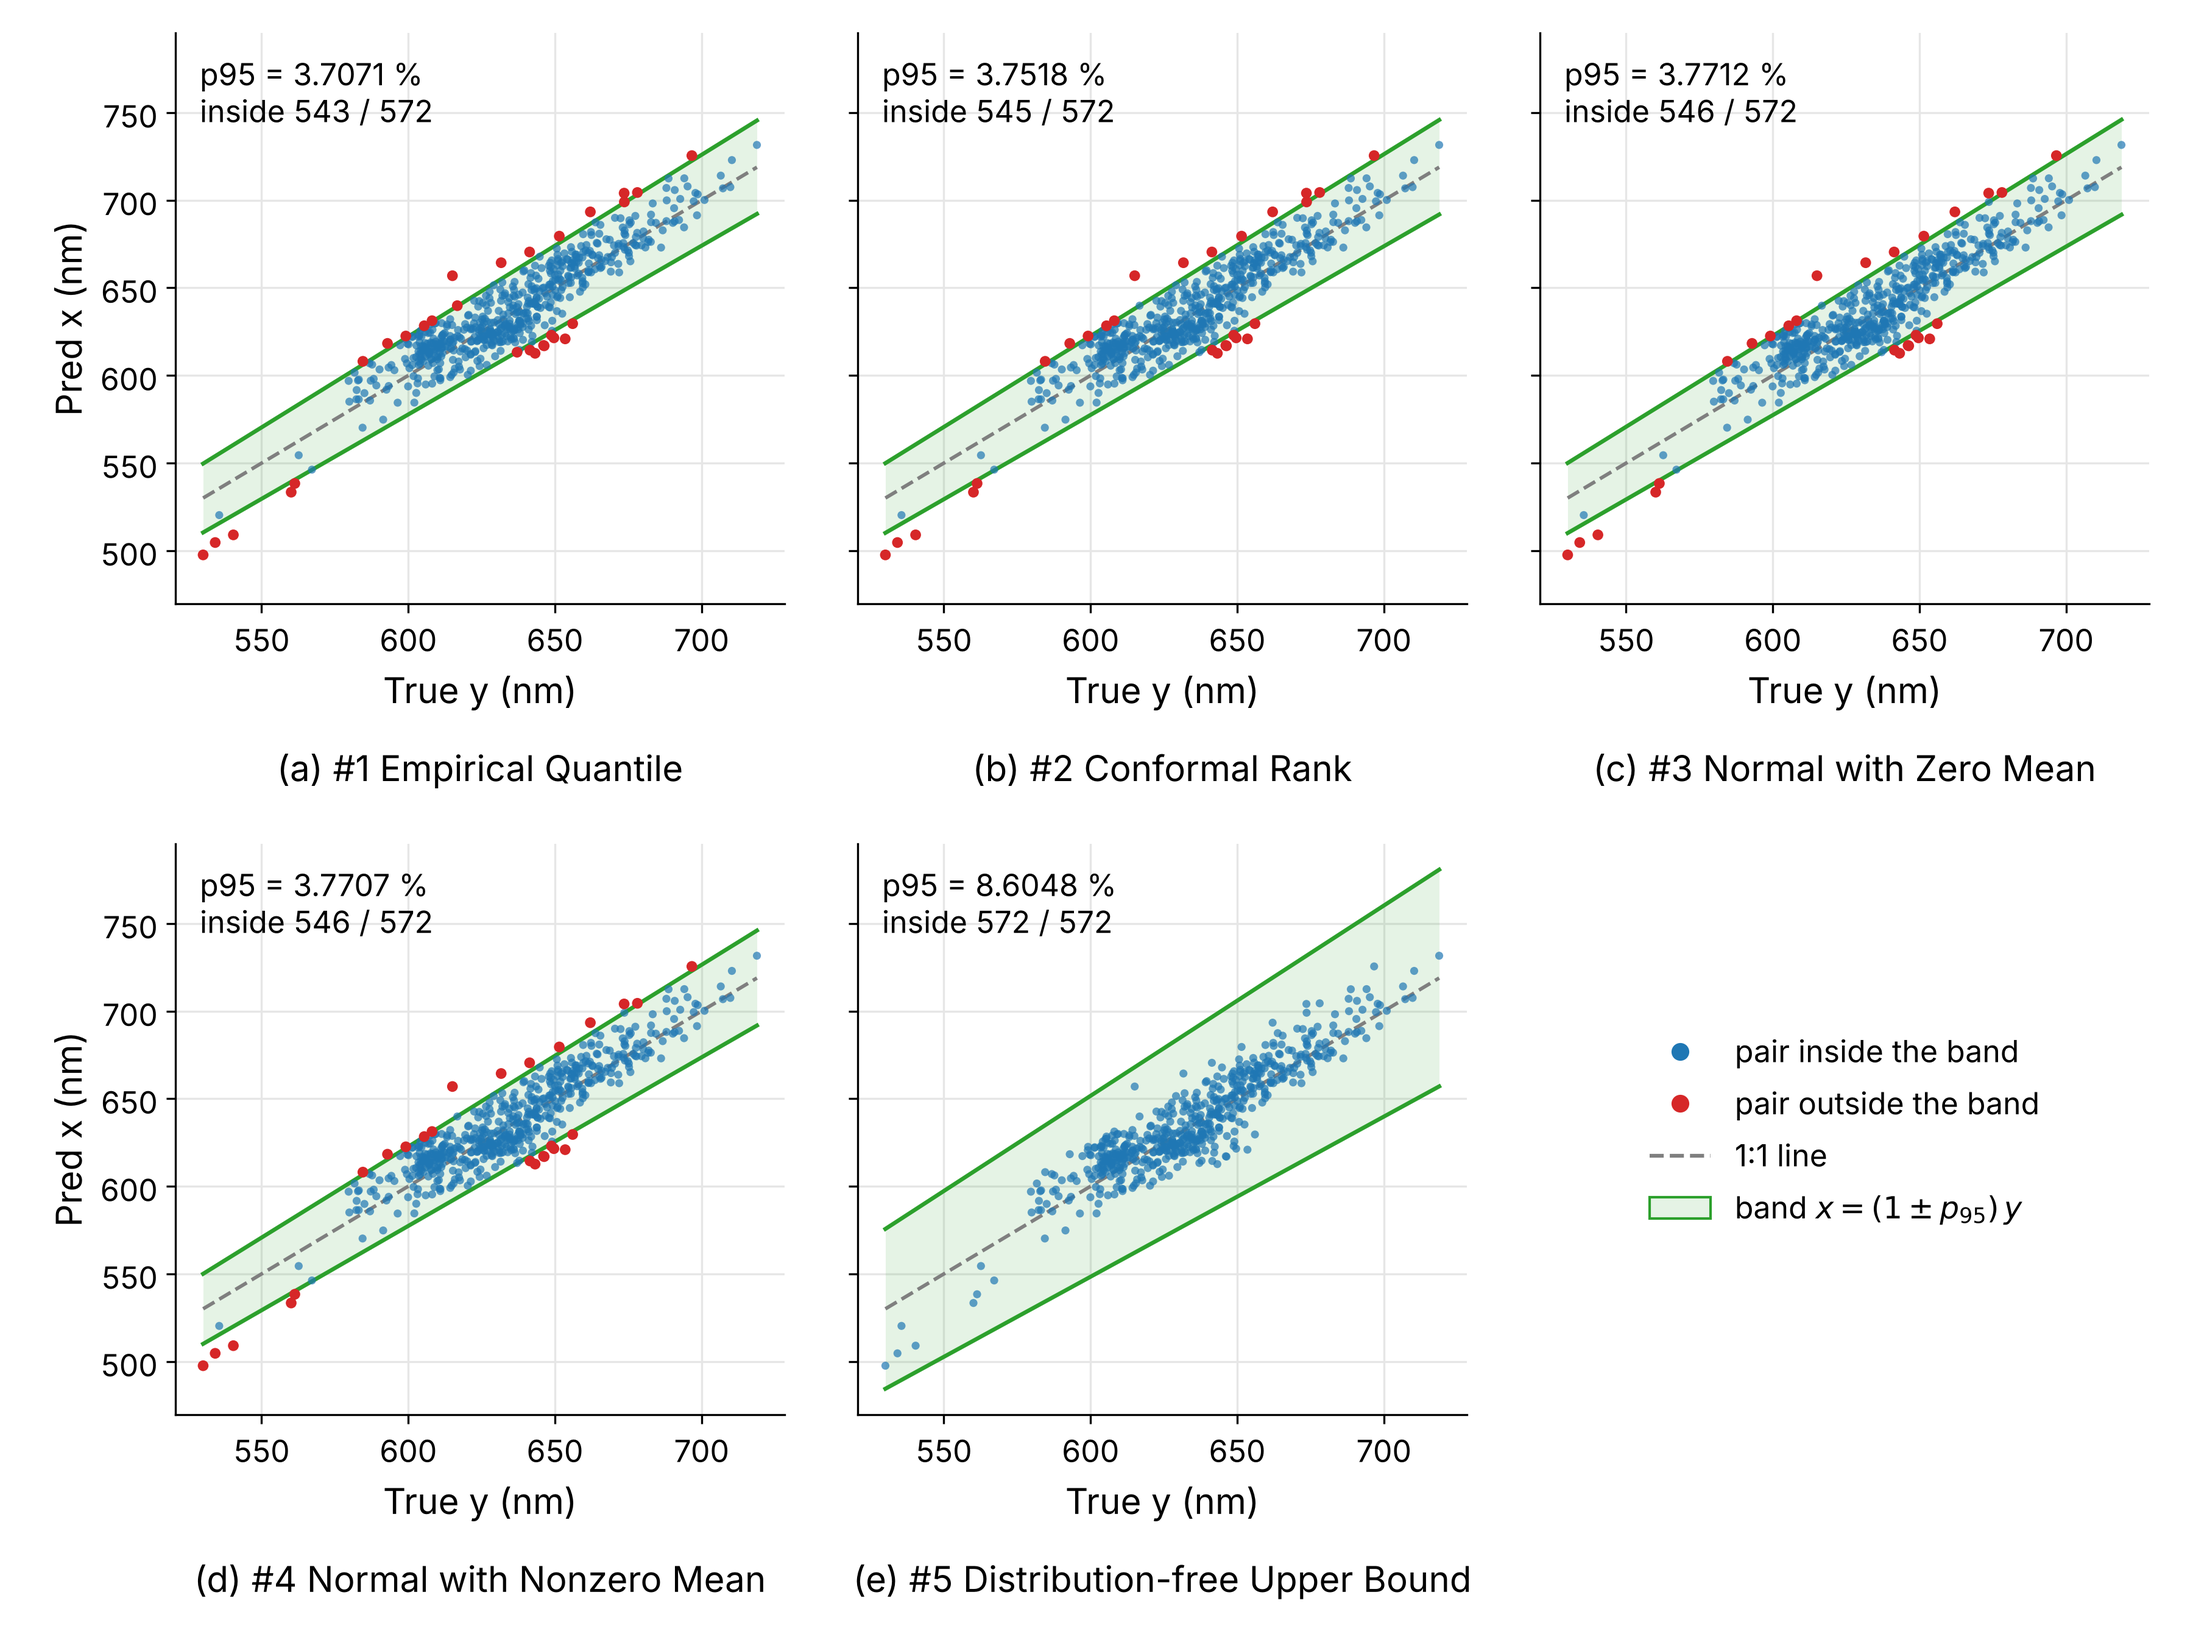
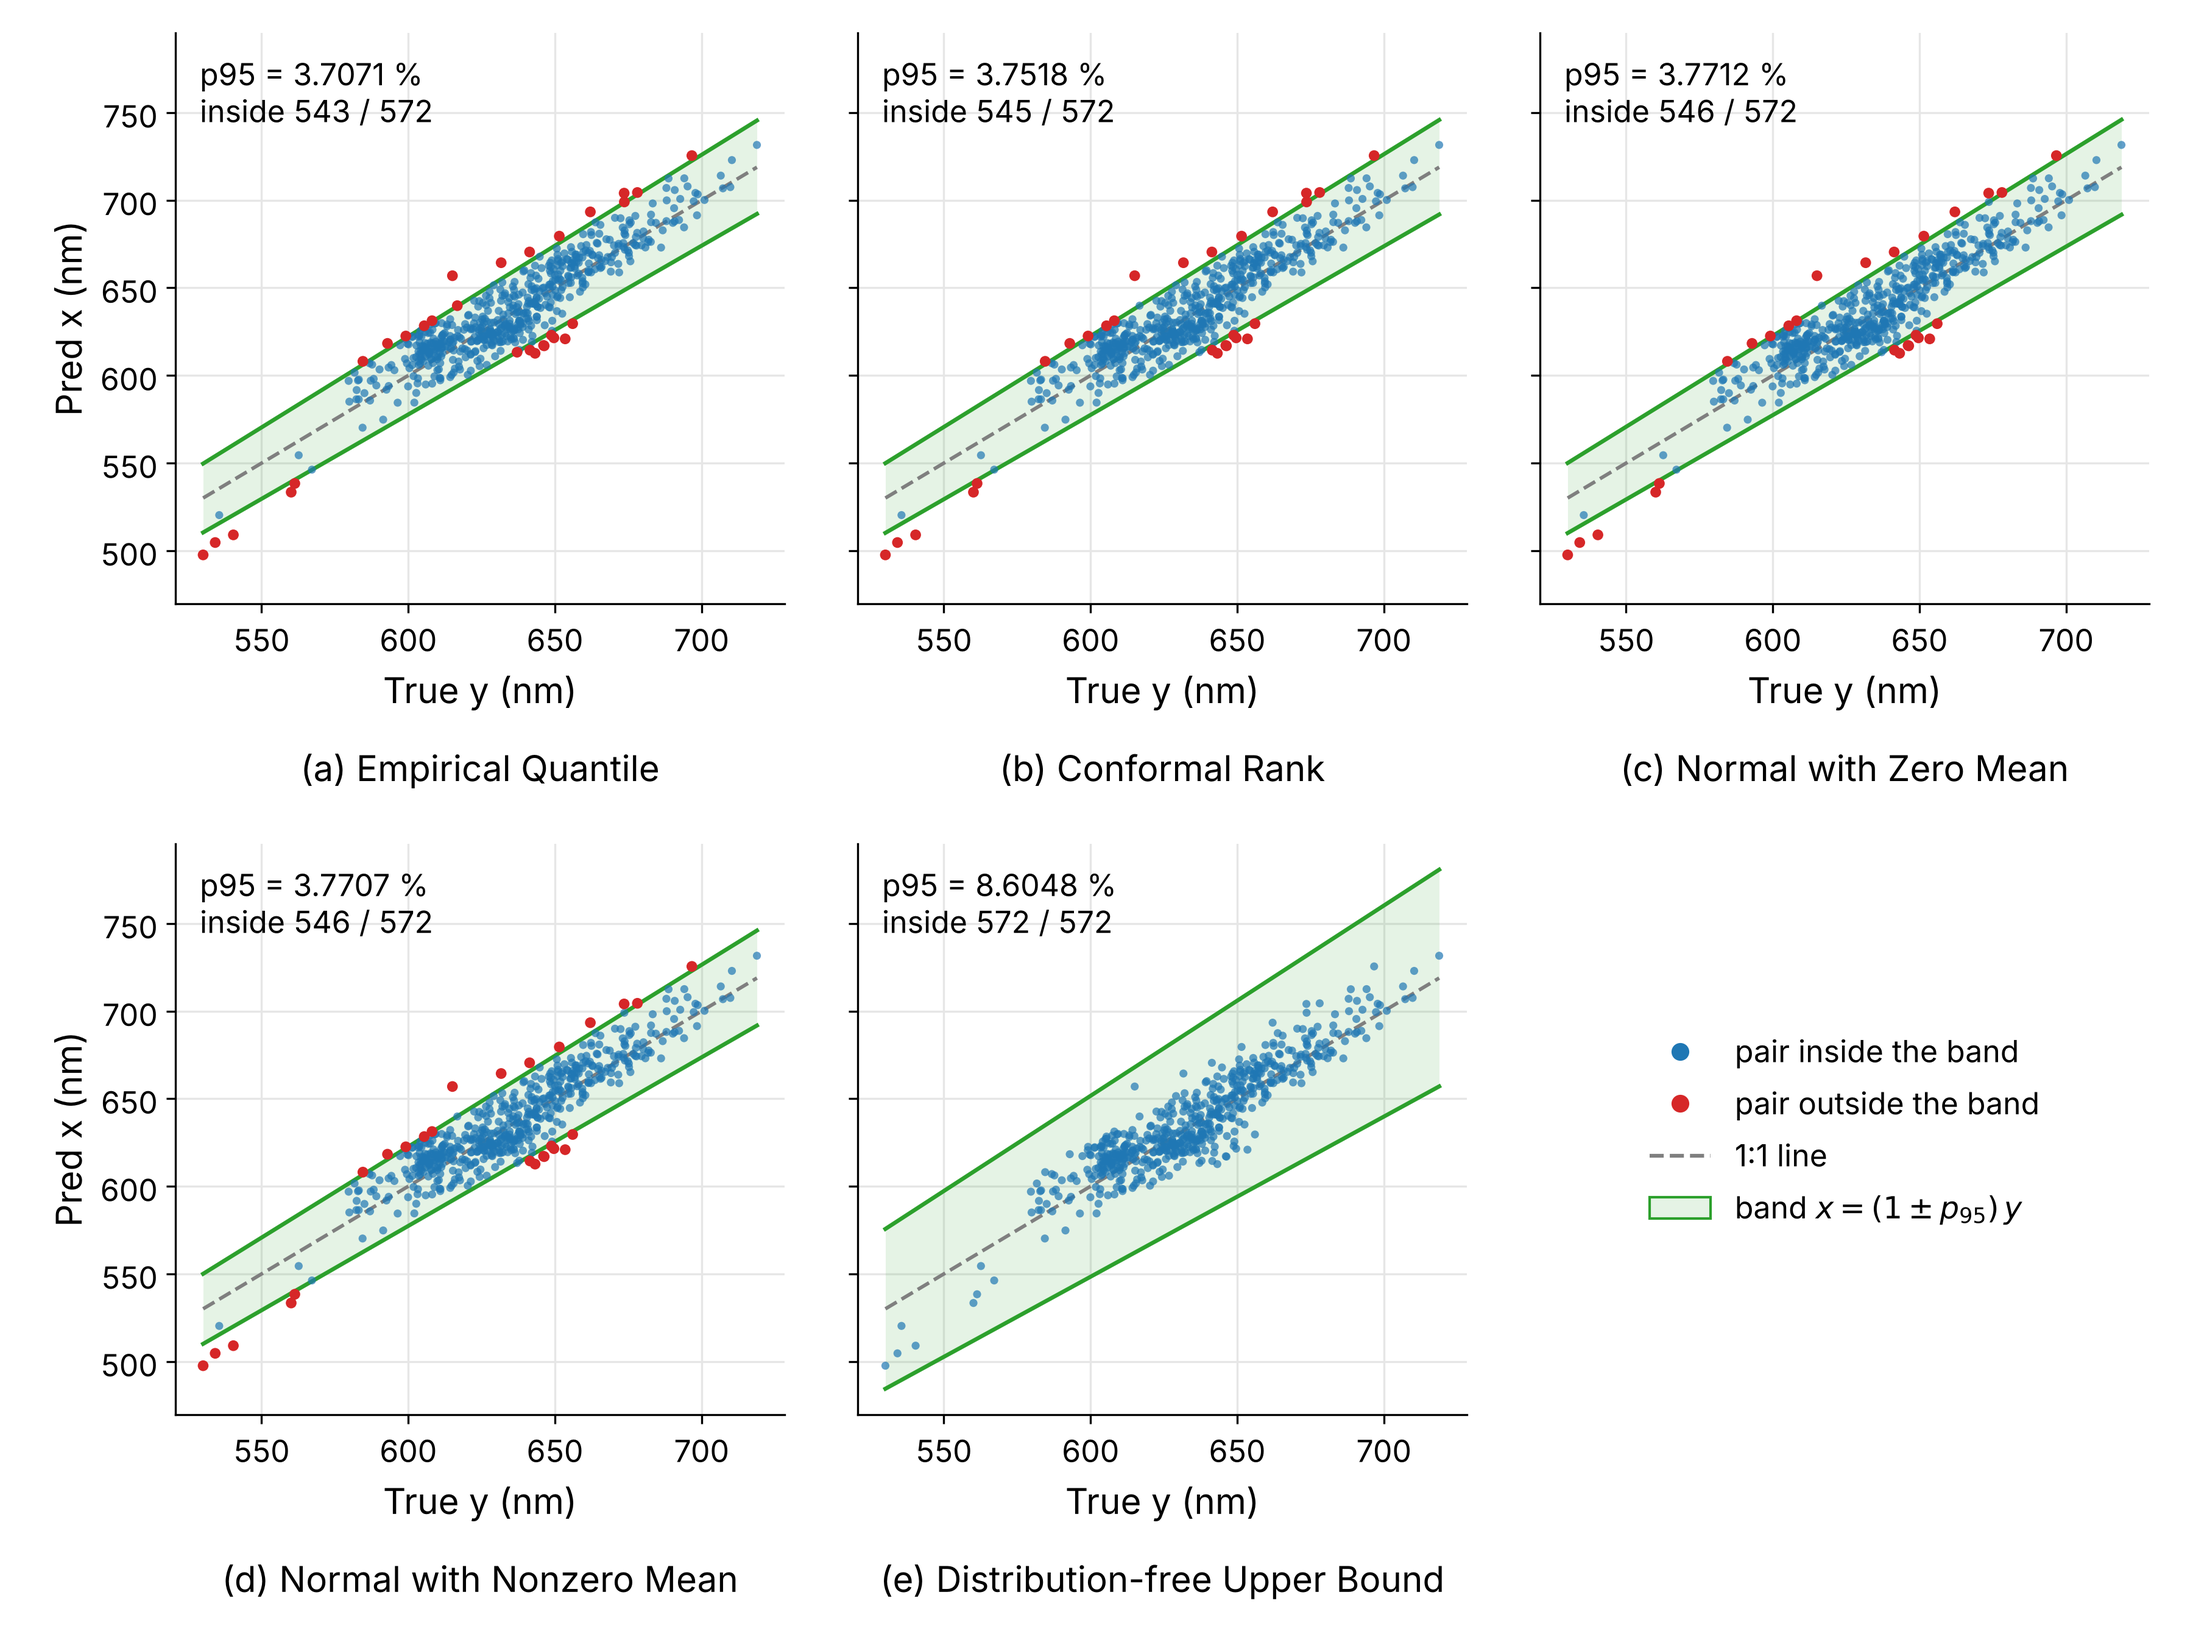
Relative-Error-Band: drop #N from Fig 2 pane captions
Claude-Session: https://claude.ai/code/session_01MWX29AtDEjLzf45ruGeozu

diff --git a/Deployment/Relative-Error-Band/src/relative_error_band.py b/Deployment/Relative-Error-Band/src/relative_error_band.py
@@ -19,7 +19,7 @@ Changelog:
     0.1.0  Added the band chart per method (--output-folder).
 """
 __author__ = 'yRocket'
-__version__ = "0.1.0+20261116"  # Semantic Versioning: Major.Minor.Patch+YYYYMMDD
+__version__ = "0.1.1+20261116"  # Semantic Versioning: Major.Minor.Patch+YYYYMMDD
 
 import argparse
 import math
@@ -144,7 +144,7 @@ def draw(x: np.ndarray = None, y: np.ndarray = None, table: pd.DataFrame = None,
         ax.set_axisbelow(True)
         for side in ('top', 'right'):
             ax.spines[side].set_visible(False)
-        ax.text(0.5, PANE_CAPTION_Y, f"({chr(ord('a') + number - 1)}) #{number} {row['method']}",
+        ax.text(0.5, PANE_CAPTION_Y, f"({chr(ord('a') + number - 1)}) {row['method']}",
                 transform=ax.transAxes, ha='center', va='top', fontsize=FONT_SIZES['pane_caption'] * scale)
     for ax in axes[:, 0]:
         ax.set_ylabel('Pred x (nm)')
